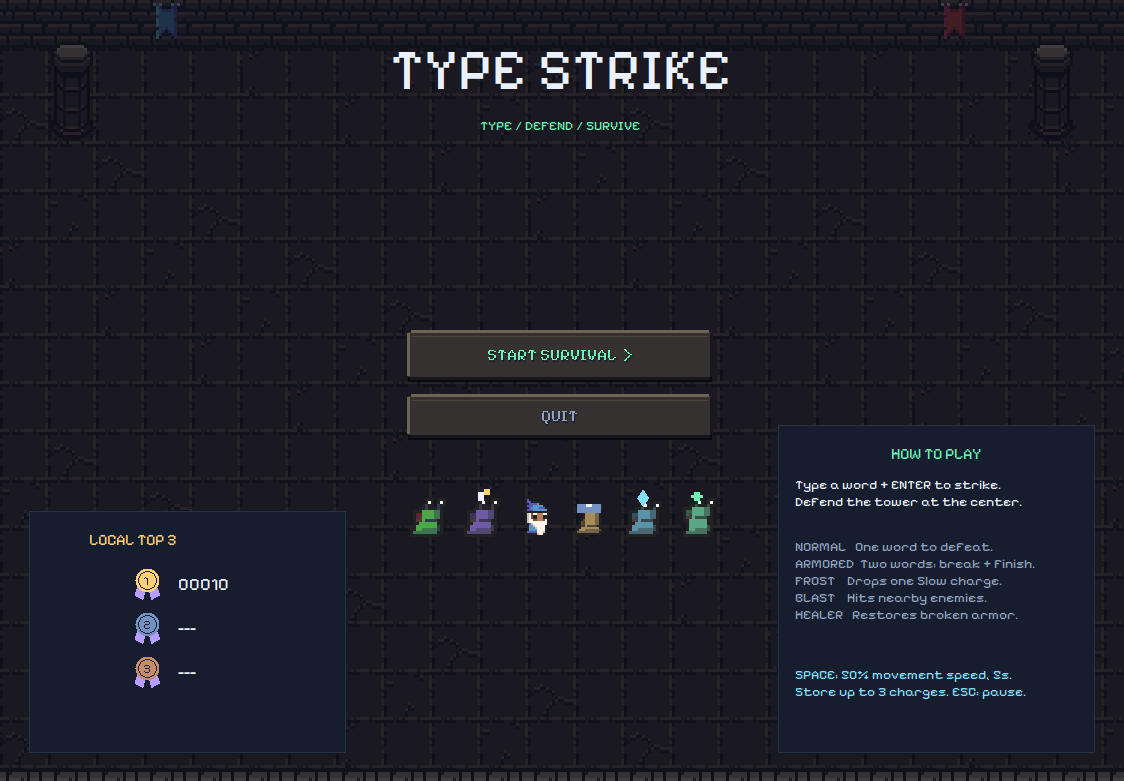
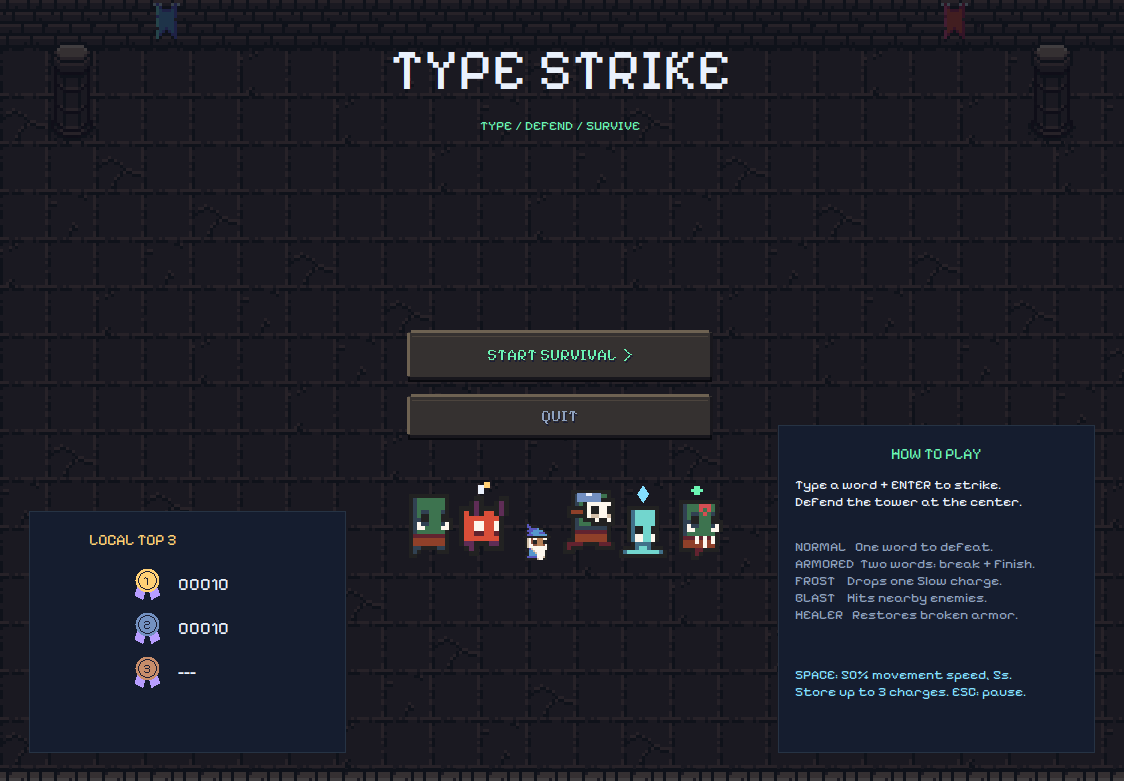
เปลี่ยนภาพศัตรูและขยายขนาด (v1.4.2)

Changed region(s): [[0.3425, 0.6146, 0.6539, 0.7375], [0.1557, 0.799, 0.218, 0.8297]]

diff --git a/src/typestrike/ui/PlayScreen.java b/src/typestrike/ui/PlayScreen.java
@@ -399,6 +399,13 @@ public final class PlayScreen extends GameScreen {
         private void drawEnemies(Graphics2D g) {
             String typed = input.getText().trim().toLowerCase(Locale.ROOT);
             List<java.awt.Rectangle> labels = new ArrayList<>();
+            g.setFont(Theme.font(12));
+            FontMetrics tagMetrics = g.getFontMetrics();
+            for (Enemy enemy : model.getEnemies()) {
+                EnemyTag tag = enemyTag(enemy, tagMetrics);
+                if (tag != null) labels.add(new java.awt.Rectangle(tag.x(), tag.y() - 12, tag.width(), 14));
+                labels.add(new java.awt.Rectangle((int) enemy.getX() - 30, (int) enemy.getY() - 38, 60, 82));
+            }
             List<Enemy> sorted = model.getEnemies().stream().sorted(Comparator.comparingDouble(
                     e -> Math.hypot(e.getX() - GameModel.BASE_X, e.getY() - GameModel.BASE_Y))).toList();
             g.setFont(Theme.font(20));
@@ -415,25 +422,18 @@ public final class PlayScreen extends GameScreen {
                 if (frost || blast || healer) {
                     g.setColor(healer ? Theme.GREEN : blast ? Theme.PURPLE : Theme.ICE);
                     g.setFont(Theme.font(10));
-                    String tag = healer ? "HEAL" : blast ? "BLAST" : "SLOW";
-                    g.drawString(tag, x - g.getFontMetrics().stringWidth(tag) / 2, y + 36);
+                    EnemyTag tag = enemyTag(enemy, tagMetrics);
+                    g.drawString(tag.text(), tag.x(), tag.y());
                     g.setFont(Theme.font(20));
                 }
                 if (Math.hypot(x - GameModel.BASE_X, y - GameModel.BASE_Y) < 150) {
                     g.setColor(Theme.RED);
-                    g.drawLine(x - 14, y + 27, x + 14, y + 27);
+                    g.drawLine(x - 14, y + 40, x + 14, y + 40);
                 }
                 int width = metrics.stringWidth(enemy.getWord()) + 18;
                 java.awt.Rectangle label = new java.awt.Rectangle(Math.max(16, Math.min(GameModel.WIDTH - width - 16, x - width / 2)),
-                        y < 110 ? y + 38 : y - 48, width, 27);
-                // Move overlapping labels upward, and draw a connector to their enemy.
-                for (int attempt = 0; attempt < 7; attempt++) {
-                    boolean overlaps = false;
-                    for (java.awt.Rectangle other : labels) if (label.intersects(other)) overlaps = true;
-                    if (!overlaps) break;
-                    label.y = label.y > 80 ? label.y - 29 : label.y + 58;
-                    label.y = Math.min(GameModel.HEIGHT - 32, label.y);
-                }
+                        y < 110 ? y + 74 : y - 72, width, 27);
+                label = placeLabel(label, labels);
                 labels.add(label);
                 Color accent = healer ? Theme.GREEN : blast ? Theme.PURPLE : frost ? Theme.ICE : enemy.hasArmor() ? Theme.GOLD : elite ? Theme.PURPLE : Theme.RED;
                 g.setColor(Theme.FIELD_BORDER);
@@ -450,10 +450,46 @@ public final class PlayScreen extends GameScreen {
                 }
                 if (enemy.hasArmor()) {
                     g.setColor(Theme.GOLD);
-                    g.fillRect(x - 8, y + 30, 6, 3);
-                    g.fillRect(x + 2, y + 30, 6, 3);
+                    g.fillRect(x - 8, y + 43, 6, 3);
+                    g.fillRect(x + 2, y + 43, 6, 3);
                 }
             }
+        }
+
+        private record EnemyTag(String text, int x, int y, int width) { }
+
+        private java.awt.Rectangle placeLabel(java.awt.Rectangle desired, List<java.awt.Rectangle> occupied) {
+            java.awt.Rectangle best = desired;
+            int bestDistance = Integer.MAX_VALUE;
+            // Find the closest clear position instead of bouncing between two crowded rows.
+            for (int row = -12; row <= 12; row++) for (int column = -1; column <= 1; column++) {
+                int x = Math.max(16, Math.min(GameModel.WIDTH - desired.width - 16,
+                        desired.x + column * (desired.width + 12)));
+                int y = Math.max(18, Math.min(GameModel.HEIGHT - 32, desired.y + row * 29));
+                int distance = Math.abs(x - desired.x) + 2 * Math.abs(y - desired.y);
+                if (distance >= bestDistance) continue;
+                java.awt.Rectangle candidate = new java.awt.Rectangle(x, y, desired.width, desired.height);
+                boolean overlaps = false;
+                for (java.awt.Rectangle other : occupied) if (candidate.intersects(other)) { overlaps = true; break; }
+                if (!overlaps) { best = candidate; bestDistance = distance; }
+            }
+            return best;
+        }
+
+        private EnemyTag enemyTag(Enemy enemy, FontMetrics metrics) {
+            String text;
+            if (enemy instanceof HealerEnemy healer) {
+                text = healer.isPreparingHeal() && model.getHealTarget(healer) != null ?
+                        String.format(Locale.ROOT, "HEAL %.1fs", healer.getHealRemaining()) : "HEAL";
+            } else if (enemy.getBlastRadius() > 0) text = "BLAST";
+            else if (enemy.dropsSlowCharge()) text = "SLOW";
+            else return null;
+            int width = metrics.stringWidth(text);
+            boolean bottom = enemy.getY() > GameModel.HEIGHT - 75;
+            int x = (int) enemy.getX() + (bottom ? 36 : -width / 2);
+            if (bottom && x + width > GameModel.WIDTH - 16) x = (int) enemy.getX() - 36 - width;
+            x = Math.max(16, Math.min(GameModel.WIDTH - width - 16, x));
+            return new EnemyTag(text, x, (int) enemy.getY() + (bottom ? 10 : 60), width);
         }
 
         private void drawCombat(Graphics2D g) {
@@ -470,9 +506,6 @@ public final class PlayScreen extends GameScreen {
                         g.setColor(Theme.GREEN);
                         g.setStroke(new BasicStroke(2, BasicStroke.CAP_BUTT, BasicStroke.JOIN_MITER, 10, new float[]{5, 5}, 0));
                         g.drawLine((int) healer.getX(), (int) healer.getY(), (int) target.getX(), (int) target.getY());
-                        g.setFont(Theme.font(11));
-                        g.drawString(String.format(Locale.ROOT, "HEAL %.1fs", healer.getHealRemaining()),
-                                (int) healer.getX() - 30, (int) healer.getY() + 50);
                     }
                 }
             }

diff --git a/src/typestrike/ui/PixelArt.java b/src/typestrike/ui/PixelArt.java
@@ -11,14 +11,12 @@ import javax.imageio.ImageIO;
 /** Bundled 0x72 CC0 art. Resource loading and palette variants are cached once. */
 final class PixelArt {
     private static final BufferedImage[] PLAYER = frames("wizzard_m_idle_anim_f");
-    private static final BufferedImage[] SMALL = frames("tiny_slug_anim_f");
-    private static final BufferedImage[] LARGE = frames("slug_anim_f");
     private static final BufferedImage[][] ENEMIES = {
-        SMALL, tint(LARGE, Theme.GOLD), tint(SMALL, Theme.ICE),
-        tint(SMALL, Theme.PURPLE), tint(SMALL, Theme.GREEN)
+        frames("orc_warrior_run_anim_f"), frames("masked_orc_run_anim_f"),
+        frames("ice_zombie_anim_f"), frames("imp_run_anim_f"), frames("orc_shaman_run_anim_f")
     };
     private static final Rectangle[] ENEMY_BOUNDS = {
-        bounds(SMALL), bounds(LARGE), bounds(SMALL), bounds(SMALL), bounds(SMALL)
+        bounds(ENEMIES[0]), bounds(ENEMIES[1]), bounds(ENEMIES[2]), bounds(ENEMIES[3]), bounds(ENEMIES[4])
     };
     private static final BufferedImage[] FLOORS = {
         load("floor_1.png"), load("floor_2.png"), load("floor_3.png"), load("floor_5.png")
@@ -44,25 +42,6 @@ final class PixelArt {
     private static BufferedImage[] frames(String prefix) {
         BufferedImage[] result = new BufferedImage[4];
         for (int i = 0; i < result.length; i++) result[i] = load(prefix + i + ".png");
-        return result;
-    }
-    /** Runtime palette swap preserves original shading, alpha and neutral eye pixels. */
-    private static BufferedImage[] tint(BufferedImage[] original, Color color) {
-        float hue = Color.RGBtoHSB(color.getRed(), color.getGreen(), color.getBlue(), null)[0];
-        BufferedImage[] result = new BufferedImage[original.length];
-        for (int i = 0; i < original.length; i++) {
-            BufferedImage source = original[i];
-            BufferedImage image = new BufferedImage(source.getWidth(), source.getHeight(), BufferedImage.TYPE_INT_ARGB);
-            for (int y = 0; y < image.getHeight(); y++) for (int x = 0; x < image.getWidth(); x++) {
-                int pixel = source.getRGB(x, y);
-                float[] hsb = Color.RGBtoHSB((pixel >> 16) & 255, (pixel >> 8) & 255, pixel & 255, null);
-                if ((pixel >>> 24) != 0 && hsb[1] > 0.25f) {
-                    pixel = (pixel & 0xff000000) | (Color.HSBtoRGB(hue, hsb[1] * 0.8f, hsb[2]) & 0xffffff);
-                }
-                image.setRGB(x, y, pixel);
-            }
-            result[i] = image;
-        }
         return result;
     }
     private static int frame(double seconds) { return Math.floorMod((int) Math.floor(seconds * 6), 4); }
@@ -104,7 +83,8 @@ final class PixelArt {
         int kind = healer ? 4 : blast ? 3 : frost ? 2 : elite ? 1 : 0;
         BufferedImage image = ENEMIES[kind][frame(seconds)];
         Rectangle region = ENEMY_BOUNDS[kind];
-        int actual = Math.max(1, Math.min(16 * scale / region.width, 16 * scale / region.height));
+        // Size by visible body height, not transparent canvas. Keep original proportions.
+        int actual = Math.max(1, Math.round(66f * scale / 3 / region.height));
         int left = x + (16 * scale - region.width * actual) / 2;
         int top = y + (16 * scale - region.height * actual) / 2;
         g.setRenderingHint(RenderingHints.KEY_INTERPOLATION, RenderingHints.VALUE_INTERPOLATION_NEAREST_NEIGHBOR);

diff --git a/tests/typestrike/SpecialEnemiesUiTest.java b/tests/typestrike/SpecialEnemiesUiTest.java
@@ -41,6 +41,16 @@ public final class SpecialEnemiesUiTest {
                         new NormalEnemy(2, "cat", 820, 150), new ArmoredEnemy(3, "armor", 750, 240),
                         new FrostEnemy(4, "ice", 200, 130), healer, exposed);
                 play.setModel(model);
+                var arenaField = PlayScreen.class.getDeclaredField("arena"); arenaField.setAccessible(true);
+                Object arena = arenaField.get(play);
+                var placement = arena.getClass().getDeclaredMethod("placeLabel", java.awt.Rectangle.class, java.util.List.class);
+                placement.setAccessible(true);
+                var occupied = java.util.List.of(new java.awt.Rectangle(690,112,60,82),
+                        new java.awt.Rectangle(728,81,80,27), new java.awt.Rectangle(720,198,40,14));
+                var label = (java.awt.Rectangle) placement.invoke(arena, new java.awt.Rectangle(702,78,70,27), occupied);
+                if (occupied.stream().anyMatch(label::intersects) || label.y < 18 || label.y + label.height > GameModel.HEIGHT) {
+                    throw new AssertionError("Crowded labels must not bounce back onto larger sprites/status text");
+                }
                 UiSmokeTest.capture(window, "v1.2.0-special-enemies");
                 JTextField field = input(play);
                 field.setText("blast"); field.postActionEvent();

diff --git a/src/typestrike/ui/MenuScreen.java b/src/typestrike/ui/MenuScreen.java
@@ -77,8 +77,8 @@ public final class MenuScreen extends GameScreen {
                 int first = (getWidth() - gap * 5 - 48) / 2;
                 for (int index : positions) {
                     int x = first + index * gap;
-                    if (index == 2) PixelArt.wizard(g, x, 5, 3, animationTime);
-                    else PixelArt.enemy(g, x, 16, 3, index == 3, index == 3,
+                    if (index == 2) PixelArt.wizard(g, x, 30, 3, animationTime);
+                    else PixelArt.enemy(g, x, 24, 3, index == 3, index == 3,
                             index == 4, index == 1, index == 5, animationTime + index * 0.1);
                 }
                 g.dispose();

diff --git a/src/typestrike/ui/GameWindow.java b/src/typestrike/ui/GameWindow.java
@@ -37,7 +37,7 @@ public final class GameWindow extends JFrame {
         setSize(1140, 820);
         setLocationRelativeTo(null);
         showScreen("menu", menu);
-        setTitle("Type Strike v1.4.1 | Pixel UI");
+        setTitle("Type Strike v1.4.2 | Enemy Roster");
         addWindowFocusListener(new java.awt.event.WindowAdapter() {
             @Override public void windowLostFocus(java.awt.event.WindowEvent e) {
                 if (current == play) play.pauseIfRunning();
